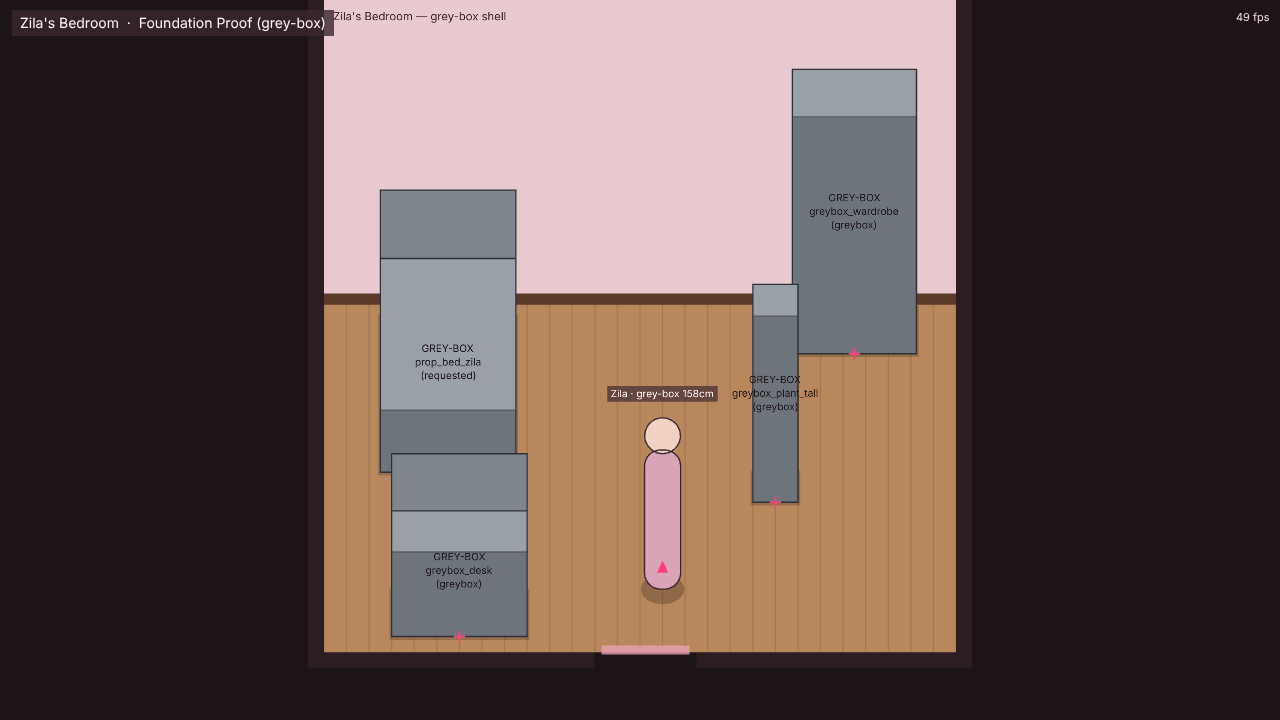
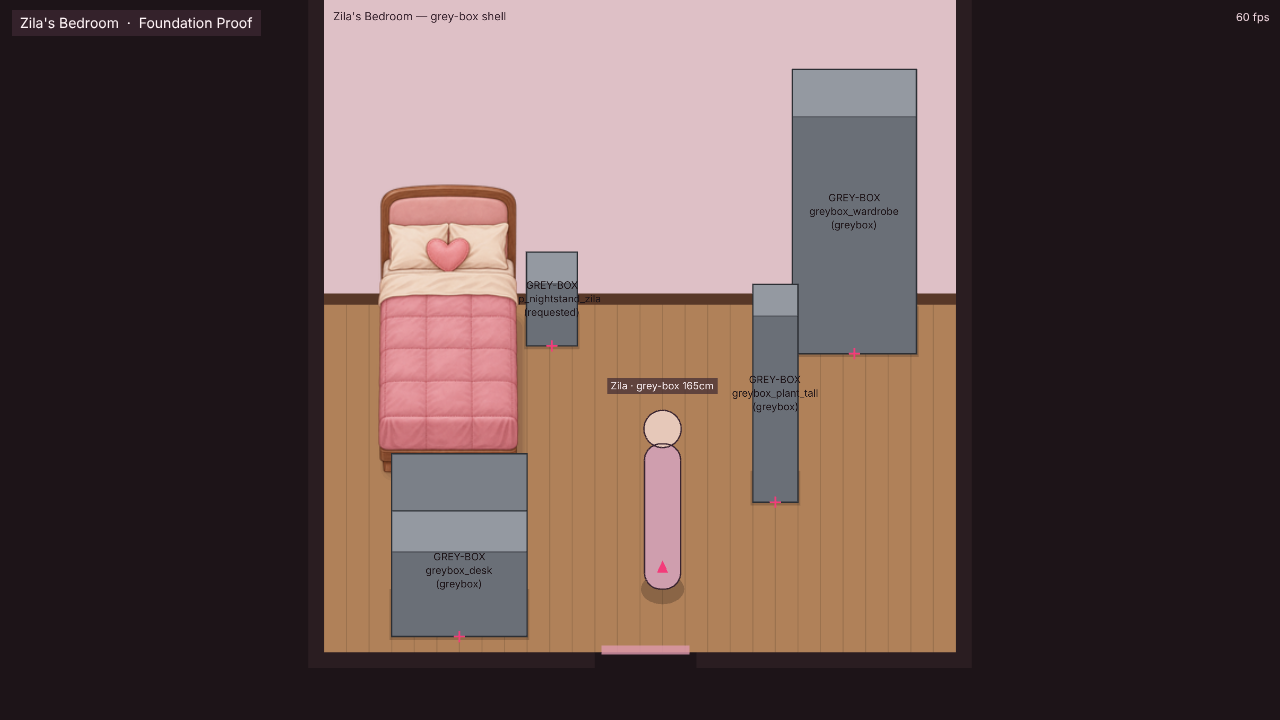
feat: integrate approved bed; request 002 prop_nightstand_zila; QA hardening
- Request 002 (prop_nightstand_zila v001): spec, template, manifest entry, room
  placement (grey-box until approved), conditioned on the approved bed reference
- Gallery shows submissions beside their style reference at matching pivots;
  validator warns when a declared style reference was not used
- e2e: approved-asset regression (bed texture, rest anchor, nightstand collision
  and interaction); prop keys index-independent; timing-robust collision/occlusion
- validate-art reports VISUAL PASS for manifest-approved versions
- privacy-scan: asset variant names (x@hd.webp) are not e-mail addresses
- Template labels scale on small canvases; HUD no longer says "grey-box"

Claude-Session: https://claude.ai/code/session_01P67KtqJMN8ARmJbwhSuoYs

Changed region(s): [[0.2812, 0.2444, 0.4688, 0.6722], [0.4688, 0.5194, 0.5625, 0.6417], [0.1875, 0.0, 0.2812, 0.0611]]

diff --git a/tests/e2e/approved-assets.spec.ts b/tests/e2e/approved-assets.spec.ts
@@ -1,0 +1,35 @@
+import { expect, test } from '@playwright/test';
+import { boot, SHOTS, state, teleport } from './helpers';
+
+test.describe('approved asset regression', () => {
+  test('approved bed renders from its checksum-verified runtime texture', async ({ page, isMobile }) => {
+    const errors = await boot(page);
+    const tex = await page.evaluate(() => {
+      const g = (window as any).__ZS_GAME;
+      if (!g.textures.exists('asset:prop_bed_zila')) return null;
+      const img = g.textures.get('asset:prop_bed_zila').getSourceImage();
+      return { w: img.width, h: img.height };
+    });
+    expect(tex, 'approved texture loaded instead of grey-box').not.toBeNull();
+    // HD (2 px/cm) = 384x576, SD (1 px/cm) = 192x288 — both must map to the same world size.
+    expect([384, 192]).toContain(tex!.w);
+    expect(tex!.h / tex!.w).toBeCloseTo(576 / 384);
+    await teleport(page, 194, 102);
+    await page.waitForTimeout(200);
+    const s = await state(page);
+    expect(s.nearest).toMatch(/^prop_bed_zila#\d+:rest$/);
+    expect(s.props.some((p) => p.key.startsWith('prop_nightstand_zila#'))).toBe(true);
+    await page.screenshot({ path: `${SHOTS}/${isMobile ? 'mobile' : 'desktop'}-06-approved-bed.png` });
+    expect(errors).toEqual([]);
+  });
+
+  test('nightstand blocks movement and has its own interaction', async ({ page, isMobile }) => {
+    test.skip(isMobile, 'desktop only');
+    await boot(page);
+    await teleport(page, 202, 72);   // standing at the nightstand's front (collision ends at y 52 + radius 16)
+    await page.waitForTimeout(150);
+    expect((await state(page)).nearest).toMatch(/^prop_nightstand_zila#\d+:nightstand$/);
+    await page.keyboard.down('ArrowUp'); await page.waitForTimeout(1200); await page.keyboard.up('ArrowUp');
+    expect((await state(page)).player.y).toBeGreaterThanOrEqual(52 + 16 - 0.5);
+  });
+});

diff --git a/tests/e2e/desktop.spec.ts b/tests/e2e/desktop.spec.ts
@@ -32,7 +32,7 @@ test.describe('desktop gameplay', () => {
   test('bed collision blocks the player and they slide along it', async ({ page }) => {
     await boot(page);
     await teleport(page, 240, 120);          // right of the bed (collision x ≤ 174)
-    await hold(page, 'ArrowLeft', 900);
+    await hold(page, 'ArrowLeft', 2000);     // generous: must stop at the bed regardless of frame rate
     const s = await state(page);
     expect(s.player.x).toBeGreaterThanOrEqual(174 + 16 - 0.5);
     expect(s.player.x).toBeLessThan(195);
@@ -43,12 +43,15 @@ test.describe('desktop gameplay', () => {
   test('walking behind a tall prop fades it (occlusion)', async ({ page }) => {
     await boot(page);
     await teleport(page, 400, 150);
-    await hold(page, 'ArrowDown', 350);     // approach from behind
-    await page.waitForTimeout(400);
+    await page.waitForTimeout(200);
+    expect((await state(page)).occluded, 'well behind and above: head not hidden yet').toEqual([]);
+    await teleport(page, 400, 190);          // directly behind the 165 cm plant (its collision starts at y 210)
+    await page.waitForTimeout(500);
     const s = await state(page);
     expect(s.player.y).toBeLessThan(210);
-    expect(s.occluded).toContain('greybox_plant_tall#3');
-    const plant = s.props.find((p) => p.key === 'greybox_plant_tall#3')!;
+    const plantKey = s.props.find((p) => p.key.startsWith('greybox_plant_tall#'))!.key; // index-independent
+    expect(s.occluded).toContain(plantKey);
+    const plant = s.props.find((p) => p.key === plantKey)!;
     expect(plant.alpha).toBeLessThan(0.8);
     await page.screenshot({ path: `${SHOTS}/desktop-03-occlusion.png` });
   });

diff --git a/src/scenes/UIScene.ts b/src/scenes/UIScene.ts
@@ -68,7 +68,7 @@ export class UIScene extends Phaser.Scene {
     this.actBtn.setPosition(width - 64, height - 70);
   }
 
-  private onRoom(room: RoomData): void { this.title.setText(`${room.displayName}  ·  Foundation Proof (grey-box)`); }
+  private onRoom(room: RoomData): void { this.title.setText(`${room.displayName}  ·  Foundation Proof`); }
   private onPrompt(label: string | null): void {
     const txt = label ? `${this.sys.game.device.input.touch ? 'Tap E' : 'E'} — ${label}` : '';
     if (this.prompt.text !== txt) this.prompt.setText(txt);

diff --git a/docs/art-requests/002-prop_nightstand_zila.md b/docs/art-requests/002-prop_nightstand_zila.md
@@ -1,0 +1,86 @@
+# Art Request 002 — `prop_nightstand_zila` v001 (Zila's Nightstand)
+
+| Field | Value |
+|---|---|
+| Asset id | `prop_nightstand_zila` |
+| Version | `v001` |
+| Spec | [`specs/props/prop_nightstand_zila.json`](../../specs/props/prop_nightstand_zila.json) (specVersion **1.0.0**) |
+| Art Bible | [`art-bible/ART_BIBLE.md`](../../art-bible/ART_BIBLE.md) **v1.2**. Read §2–§7, §11–§13 and **§16 Style references** |
+| **Style reference (required)** | [`art/approved/prop_bed_zila/prop_bed_zila_v001.png`](../../art/approved/prop_bed_zila/prop_bed_zila_v001.png), approved furniture reference |
+| Template | [`art-bible/perspective/prop_nightstand_zila_template.png`](../../art-bible/perspective/prop_nightstand_zila_template.png) (+ `.svg`) |
+| Projection | [`art-bible/perspective/projection_cube.png`](../../art-bible/perspective/projection_cube.png) |
+| Branch | `codex/art/prop_nightstand_zila-v001` (from the latest `reboot/foundation`) |
+| PR target | `reboot/foundation`, template `art_submission.md` |
+| Cost | **$0**: built-in image generation included in the existing ChatGPT subscription only |
+
+## Goal of this request
+
+The bed proved that the pipeline works. This request tests **consistency**: the nightstand must look as if **the same artist painted it on the same day as the approved bed**, and it must sit naturally to the right of the bed's headboard. Matching the bed matters more than making the nightstand impressive on its own.
+
+## 1. The object
+
+A small bedside table standing against the north (back) wall, immediately to the right of the bed's headboard (4 cm gap).
+
+- **Size:** 45 cm wide × 40 cm deep × 55 cm tall. Its top is level with the bed's mattress top (55 cm).
+- **Construction:** the **same walnut** as the bed frame: same hue, grain softness, satin sheen and rounded edges. One drawer at the top with a small round brass or wood knob, an open shelf below, and four short legs that echo the bed's legs.
+- **Top surface:** empty, apart from one small accent: a folded cream cloth doily or a tiny potted succulent, kept within the top surface. **No lamp, clock, phone or books**; those will be separate props.
+- **Optional warmth:** a thin blush-pink (`#F4C7D3`) inset on the drawer front is allowed if it echoes the headboard panel. Keep it subtle.
+
+## 2. Exact geometry (canvas pixels, see the template)
+
+| Item | Value |
+|---|---|
+| Canvas | **160 × 224 px**, RGBA, transparent |
+| Density | 2 px per cm (same as the bed) |
+| Pivot | **(80, 200)**, front-centre of the footprint at floor level |
+| Floor footprint | x **35 → 125**, y **144 → 200** |
+| Legs touch floor at | y **200** (± 8 px) |
+| Top surface, front edge | y ≈ **90** (55 cm) |
+| Top surface, back edge | y ≈ **34** |
+| Front face | y 90 → 200, square-on, full height |
+| Side overhang | ≤ 2 cm → art may extend to x **31 → 129** |
+| artBounds | x 24 → 136, y 20 → 208 |
+| Transparent padding | ≥ 8 px |
+| Opaque coverage | 20 %–75 % |
+
+**Perspective:** identical to the bed. ZsRoom oblique ¾ top-down, top and front faces only, **no side faces**, no convergence, verticals vertical, depth at ×0.7.
+
+**Light and shadow:** upper-left key light. You may make it slightly more visible than on the bed (lighter left half of the top surface, a soft darker right edge of the front face), but the two pieces must still look lit by the same lamp in the same room. Thin contact darkening at the leg bases only. **No cast floor shadow** (the engine draws it).
+
+**Lines:** coloured contours (dark walnut on wood), with weights matching the bed at the same scale. They may be slightly crisper than the bed's, but not thicker.
+
+## 3. Engine data (reference)
+
+Collision is x −24 → +24 cm and y −40 → 0 cm from the pivot. The interaction anchor `nightstand` sits 28 cm in front of it. It is placed at room position (202, 52), directly to the right of the bed head.
+
+## 4. Generation procedure
+
+1. Confirm built-in image generation is available. **If it isn't, stop and report.** Do not substitute procedural or SVG art.
+2. Condition on **the approved bed master** (style), the nightstand template (layout only), and the projection cube. List all three in `metadata.generator.referencesUsed`; the validator warns if the bed reference is missing.
+3. Request a transparent background at the highest available resolution.
+4. Generate **3 candidates**. Save the raw outputs to `art/source/prop_nightstand_zila/v001/`.
+5. Fit the chosen candidate. Near-opaque alpha is now snapped to 255 automatically.
+   ```bash
+   node scripts/fit-to-spec.mjs art/source/prop_nightstand_zila/v001/candidate-X.png prop_nightstand_zila art/submissions/prop_nightstand_zila/v001/prop_nightstand_zila_v001.png
+   ```
+6. Write `metadata.json` (with the SHA-256 and the `cost` statement) and `prompt.md`.
+7. Run `npm run validate:art` and `npm run gallery`. The gallery now shows your nightstand **beside the approved bed at the same scale**. Check that pairing before opening the PR.
+8. Open a **draft** PR into `reboot/foundation`. Change only `art/submissions/prop_nightstand_zila/v001/**` and `art/source/prop_nightstand_zila/v001/**`. Do not merge.
+
+### Suggested generation prompt
+
+> Premium hand-painted HD 2D game asset in exactly the same painting style, wood colour and finish as the attached approved bed: a small walnut bedside nightstand, single object on a fully transparent background. ZsRoom top-down three-quarter orthographic oblique view: we see the top surface and the front face square-on; no perspective convergence, no visible left or right side faces, vertical lines perfectly vertical. 45 cm wide, 40 cm deep, 55 cm tall: the top is level with the bed's mattress. Warm walnut wood (#8A5A3C, shadows #5B3A29) with soft grain, satin sheen and softly rounded edges like the bed frame; one top drawer with a small round knob and an optional subtle blush-pink inset panel; an open shelf below; four short legs matching the bed's legs; a small folded cream doily on top. Soft warm interior daylight from the upper left, painted form shading, coloured dark-walnut contour lines, no black outlines. No lamp, no books, no floor, no wall, no shadow on the floor, no text. Not pixel art, not a 3D render.
+
+## 5. Review checklist
+
+**Technical (automated):** canvas 160×224 · PNG RGBA 8-bit sRGB · padding · art inside artBounds · base at y 200 ± 8 · coverage 20–75 % · metadata, checksum and paths valid · bed style reference listed.
+
+**Visual (human):**
+- [ ] Next to the bed in the gallery pairing, it reads as **the same set of furniture**: same wood, same finish, same line softness.
+- [ ] Same oblique perspective as the bed: no side faces.
+- [ ] The top looks level with the bed's mattress at the same scale.
+- [ ] Clean alpha on light and dark floors.
+- [ ] Readable at SD size: you can tell there's a drawer and a shelf.
+- [ ] Nothing on top that should be a separate prop.
+
+TECHNICAL PASS (CI) · VISUAL PASS (Creative Director only) · PRODUCTION READY (both + in-game regression).
